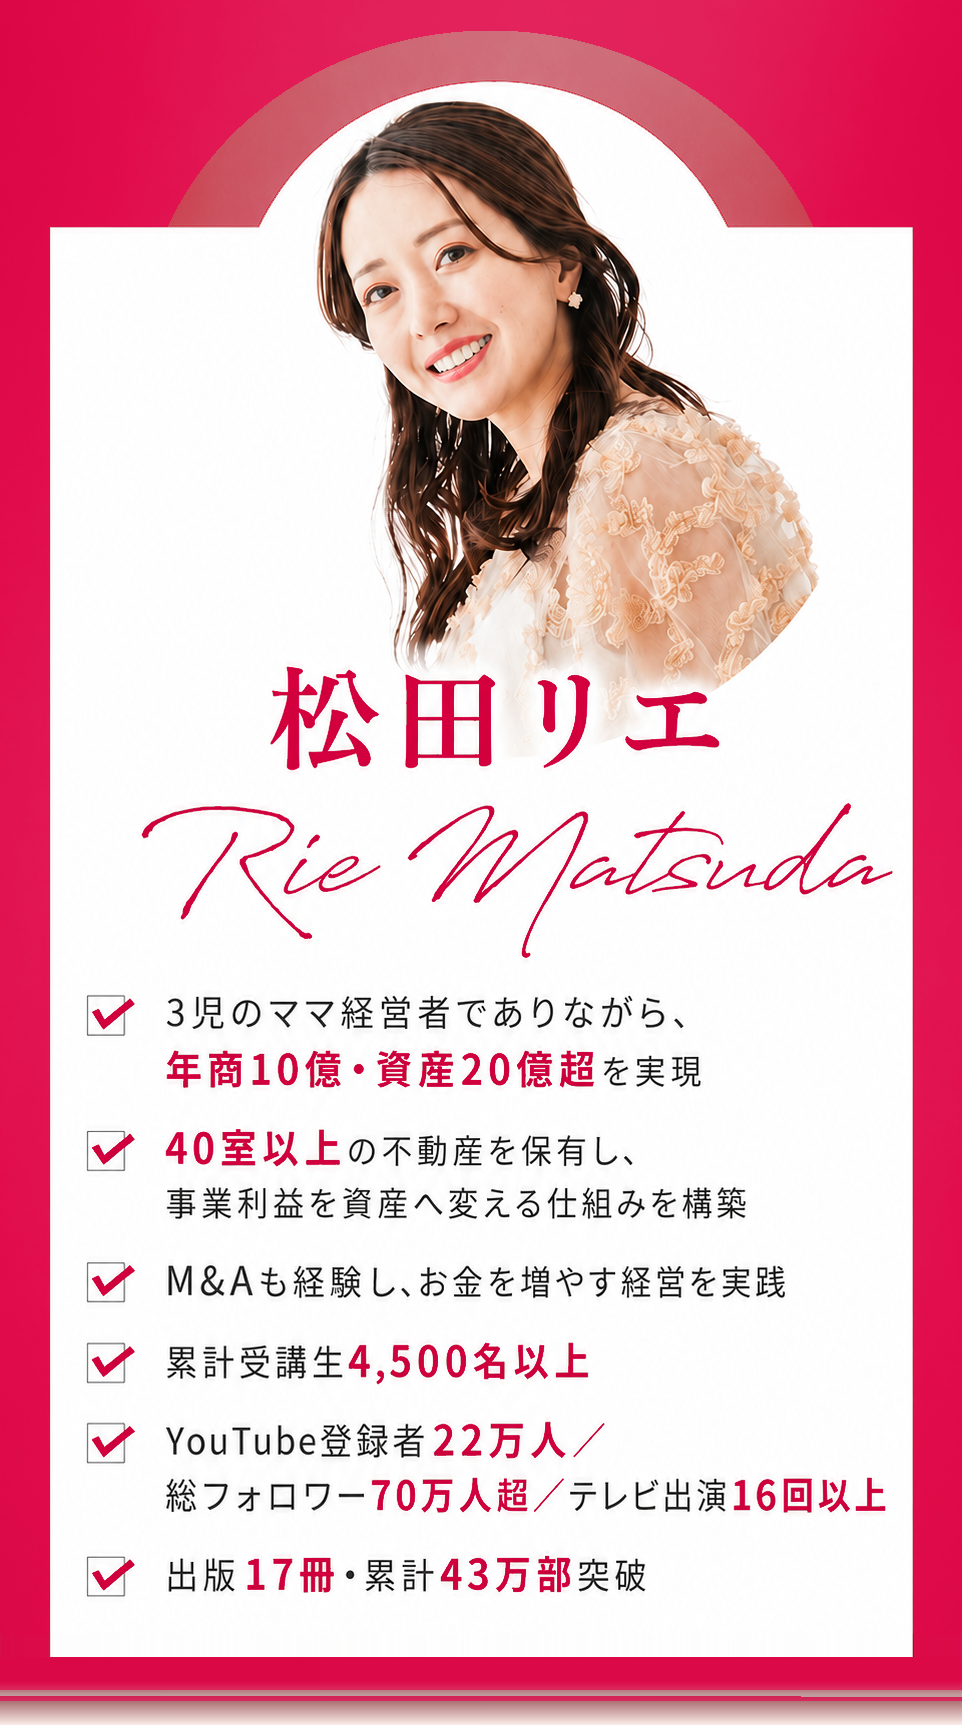
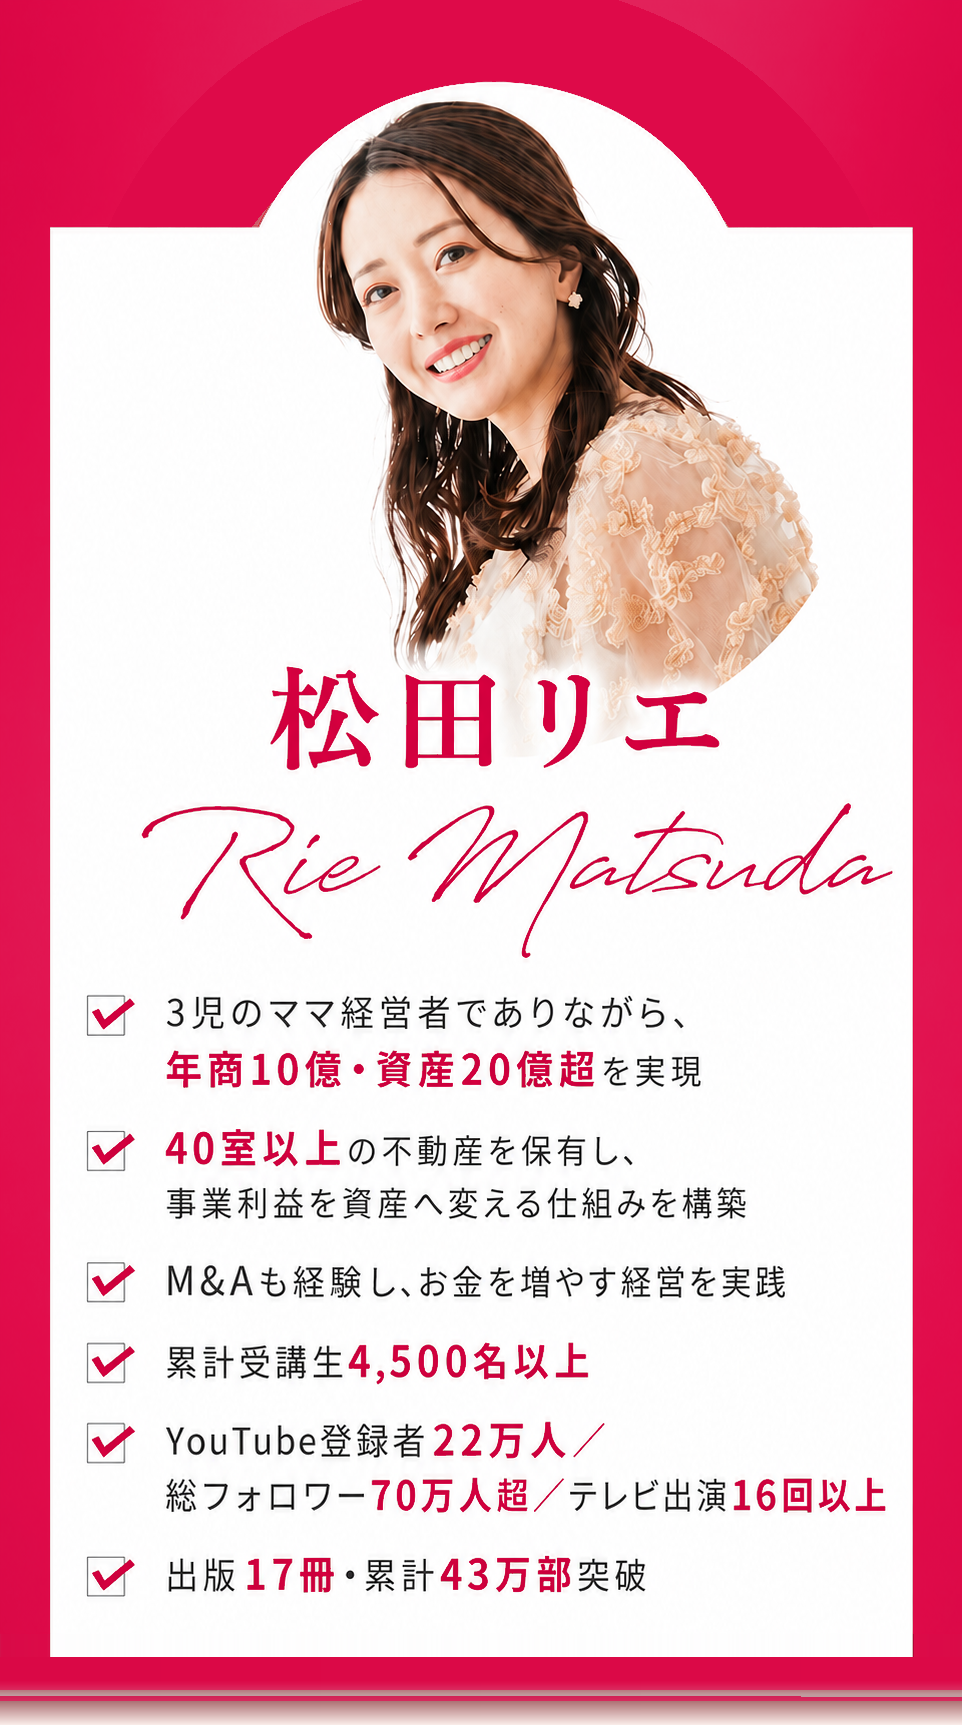
特典バー両端の飾り模様を削除／リボンの白線を除去／プロフィール上部アーチの色をフレームと統一

Changed region(s): [[0.1871, 0.0, 0.842, 0.1536]]

diff --git a/index.html b/index.html
@@ -864,7 +864,7 @@ footer .f-copy{margin-top:14px;font-size:12px;opacity:.95;}
 
   <!-- ============ 2. 特典セクション ============ -->
   <section class="tokuten">
-    <img class="tokuten-head-img" src="images/tokuten-head.png?v=5" alt="勉強会 豪華参加特典｜女性起業家の資産形成完全ロードマップ 勉強会専用LINEにご登録の方全員に 最大30大特典プレゼント 登録してすぐに10大特典GET" width="1586" height="992">
+    <img class="tokuten-head-img" src="images/tokuten-head.png?v=6" alt="勉強会 豪華参加特典｜女性起業家の資産形成完全ロードマップ 勉強会専用LINEにご登録の方全員に 最大30大特典プレゼント 登録してすぐに10大特典GET" width="1586" height="992">
 
     <div class="bk-grid">
       <div class="bk-row">
@@ -943,7 +943,7 @@ footer .f-copy{margin-top:14px;font-size:12px;opacity:.95;}
   <section class="kanshu">
     <img class="profile-img" src="images/profile-head.png?v=2" alt="年商1億を資産10億へ。3児のママ経営者が実践する女性起業家の資産形成術。" width="1012" height="278">
     <img class="profile-img" src="images/kanshu-band.png?v=5" alt="事業と資産形成の両立を実現した 女性起業家 松田リエ監修。年商10億・資産20億超、40室以上の不動産を保有し、M&Aも経験した3児のママ経営者が監修。事業の利益を不動産や資産へ変え、自分が働かなくてもお金が増えていく仕組みを構築。「どう資産を作るか」を、リアルな経験に基づいて体系化した資産形成の無料講座です。" width="1122" height="1402">
-    <img class="profile-img" src="images/rie-profile.png?v=6" alt="松田リエ Rie Matsuda。3児のママ経営者でありながら年商10億・資産20億超を実現／40室以上の不動産を保有し事業利益を資産へ変える仕組みを構築／M&Aも経験しお金を増やす経営を実践／累計受講生4,500名以上／YouTube登録者22万人・総フォロワー70万人超・テレビ出演16回以上／出版17冊・累計43万部突破" width="962" height="1725">
+    <img class="profile-img" src="images/rie-profile.png?v=7" alt="松田リエ Rie Matsuda。3児のママ経営者でありながら年商10億・資産20億超を実現／40室以上の不動産を保有し事業利益を資産へ変える仕組みを構築／M&Aも経験しお金を増やす経営を実践／累計受講生4,500名以上／YouTube登録者22万人・総フォロワー70万人超・テレビ出演16回以上／出版17冊・累計43万部突破" width="962" height="1725">
     <img class="profile-img" src="images/jisseki.png?v=8" alt="実績画像・メディア掲載多数。テレビ出演写真／週刊女性・THE TIME,・美的.com・Yahoo!ニュース・小学館・女子SPA!・毎日新聞・朝日新聞・産経新聞・読売新聞・中日新聞・壮快ほか雑誌掲載多数。累計受講生4,500名以上／YouTube総登録者22万人以上／総フォロワー70万人突破／累計43万部突破／テレビ出演16回以上" width="724" height="1369">
   </section>
 
